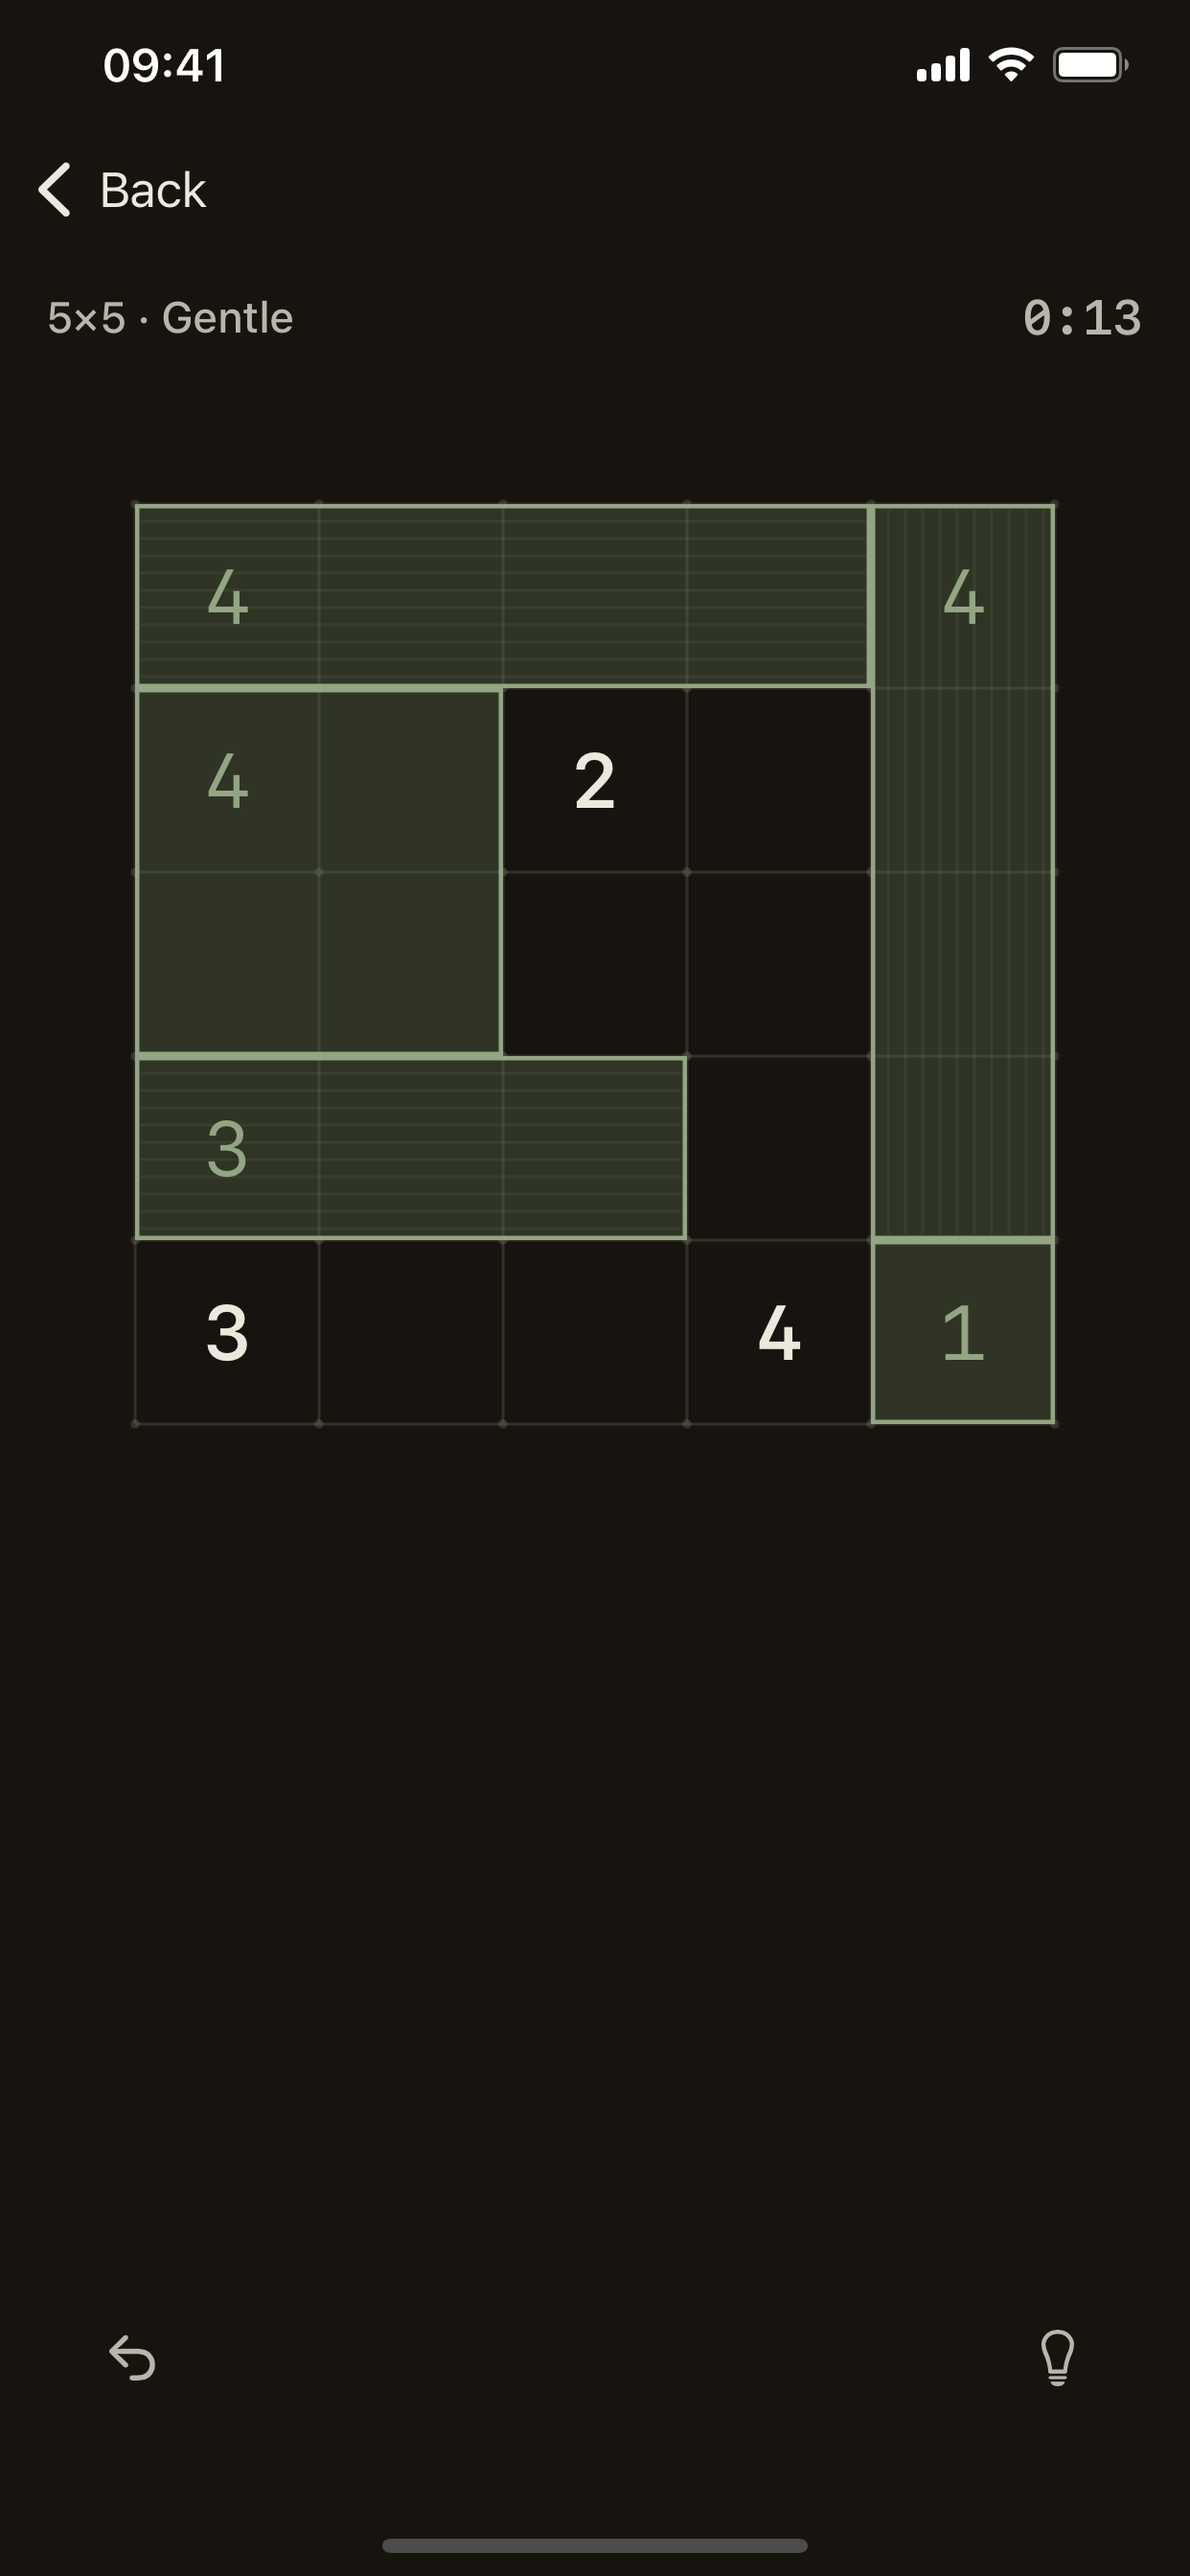
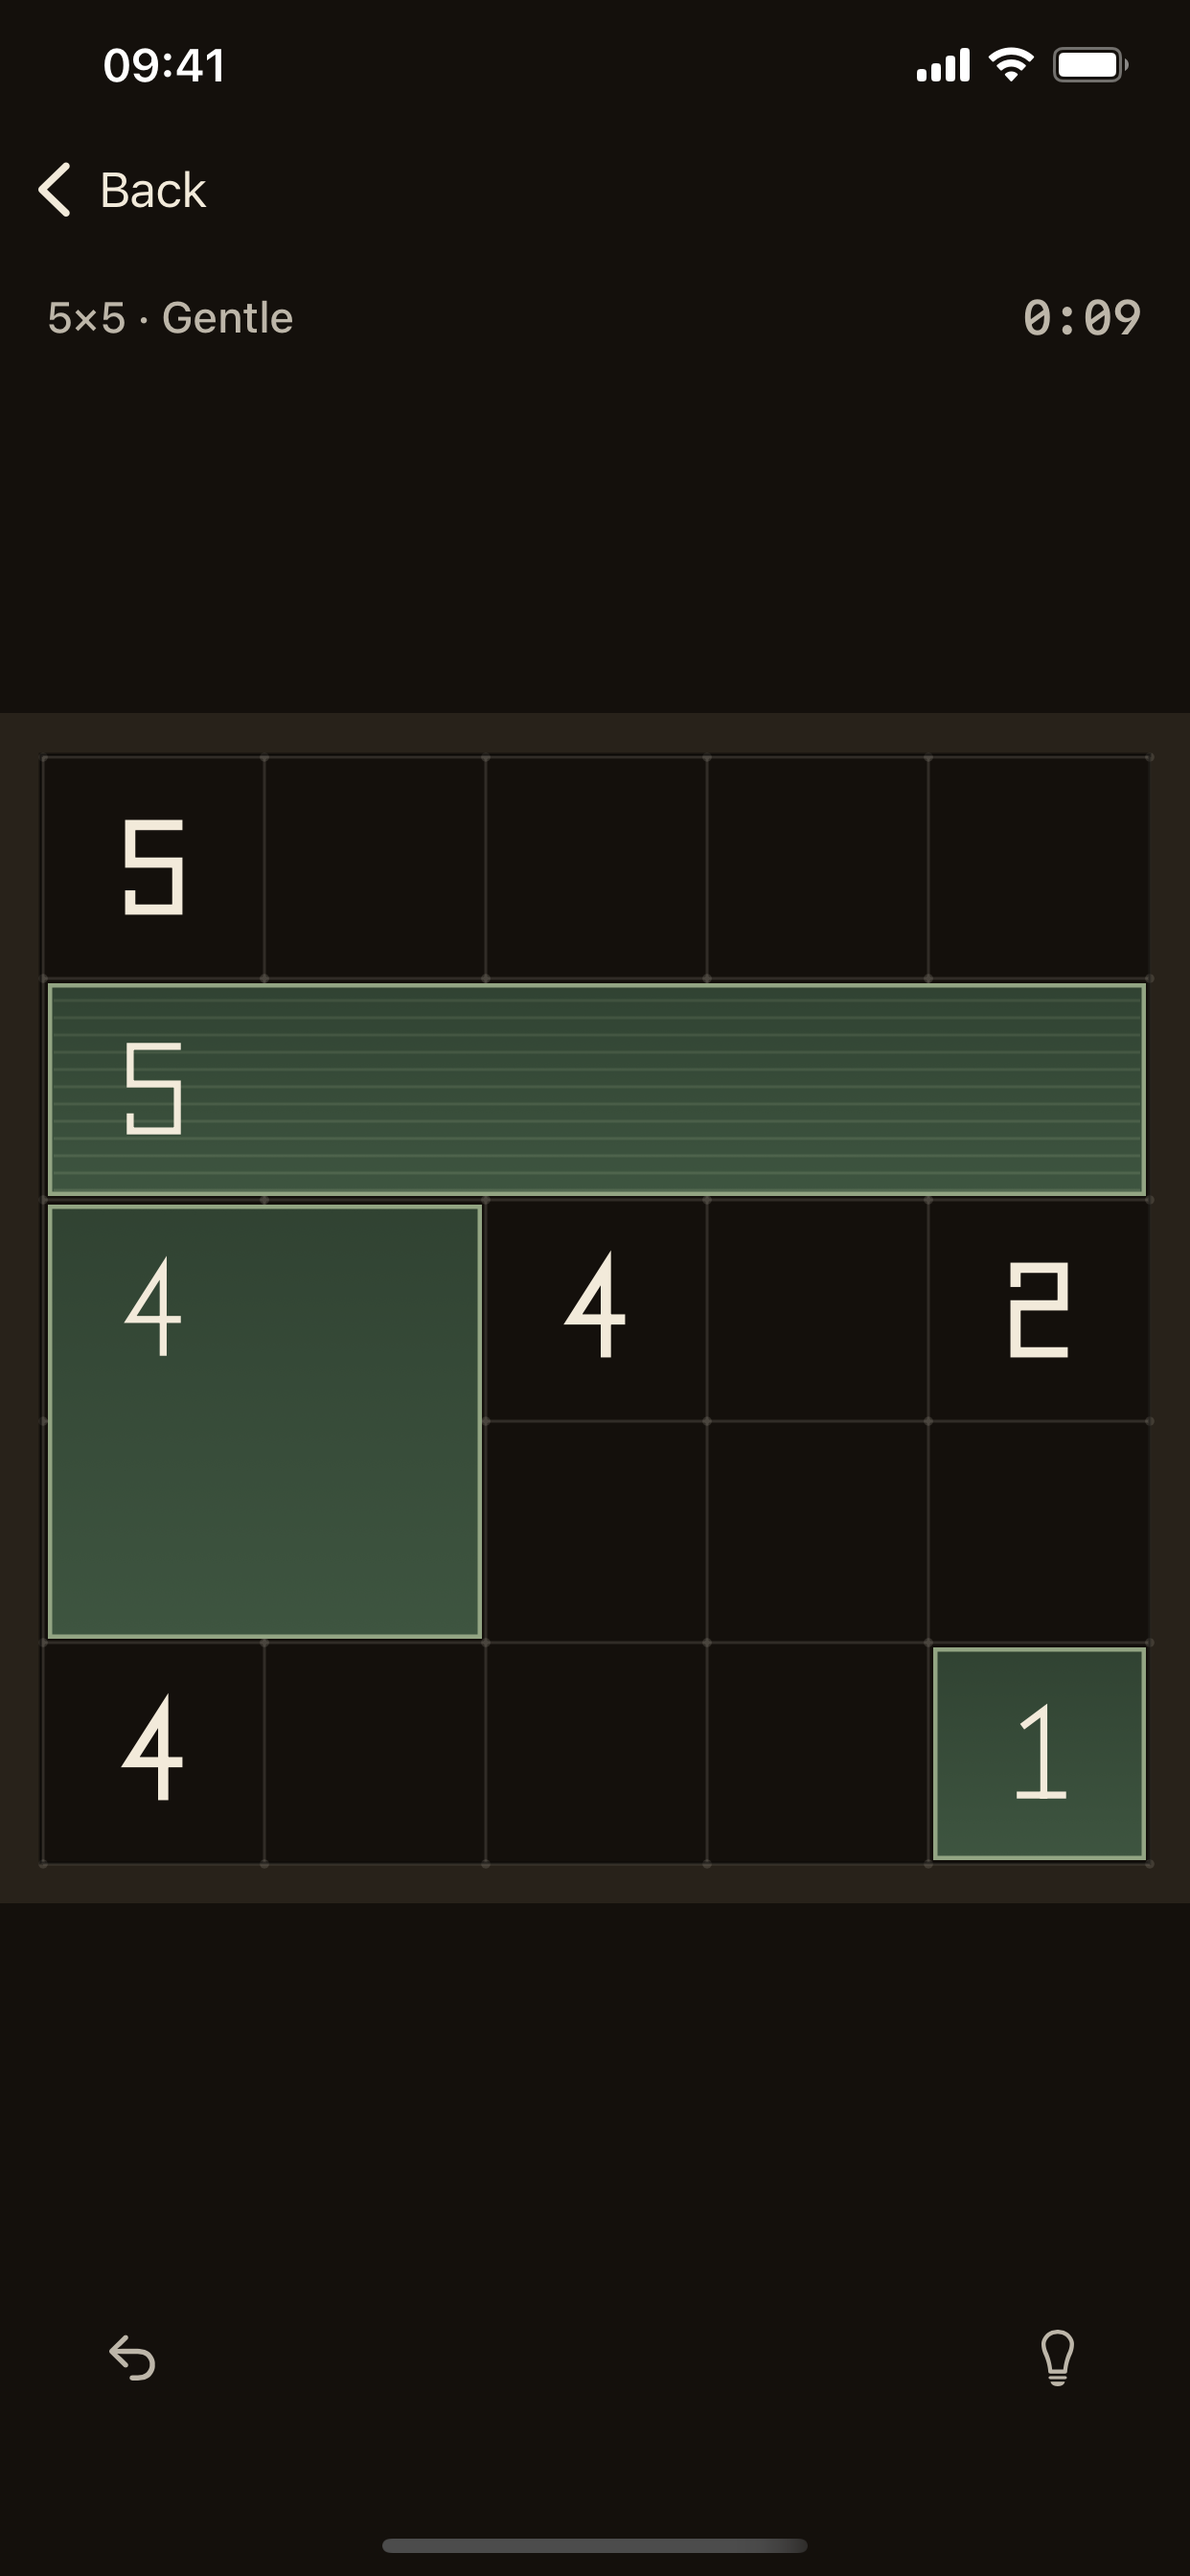
Build 3: bump, runbook §0, reply draft, capture script for the new app
CURRENT_PROJECT_VERSION 2 → 3. SUBMISSION.md gains the resubmission
checklist; resolution-reply-draft.md holds the Resolution Center text
for Kai to review — it is never sent automatically. The screenshot
driver learns the new app: entry through the size sheet, the lesson via
its seal on Home, a new daily scene, and a dark-only set (the app pins
dark; a light pass would capture identical frames twice).

Build 3 was archived, exported under the cloud-managed distribution
certificate, validated, uploaded (VALID, id 347a4e99), and attached to
the rejected 1.0 version. Description, keywords, promo, subtitle and
review notes are pushed to ASC and verified by read-back.

diff --git a/AppStore/capture_screenshots.py b/AppStore/capture_screenshots.py
@@ -320,7 +320,12 @@ def enter_game_with_readable_board(sim, attempts=6):
             if back:
                 sim.tap(back, wait=1.5)
             continue
-        sim.tap(play, wait=3.0)
+        sim.tap(play, wait=1.5)
+        # The button now opens the size/difficulty sheet; its own primary
+        # button carries the same label and starts the game.
+        confirm = sim.find("Lay out a room")
+        if confirm:
+            sim.tap(confirm, wait=3.0)
         ones = [p for v, p in sim.clue_elements() if v == 1]
         if not ones:
             back = sim.find("Back")
@@ -389,22 +394,37 @@ def game_flow(sim, out_dir, appearance):
 
 
 def learn_flow(sim, out_dir, appearance):
-    """Learn menu shot, then the Prime Strips lesson with its argument."""
-    learn = sim.find("Learn")
-    if not learn:
+    """The Prime Strips lesson (entered through its seal on Home) with its
+    argument drawn, then today's room."""
+    seal = sim.find("Prime Strips lesson")
+    if not seal:
         return False
-    sim.tap(learn, wait=2.0)
-    sim.shot(os.path.join(out_dir, f"{appearance}-05-learn.png"))
-
-    lesson = sim.find("Prime Strips")
-    if not lesson:
-        return False
-    sim.tap(lesson, wait=2.0)
+    sim.tap(seal, wait=2.0)
     show = sim.find("Show me")
     if not show:
         return False
     sim.tap(show, wait=2.2)                  # the argument draws itself
     sim.shot(os.path.join(out_dir, f"{appearance}-04-lesson.png"))
+    back = sim.find("Back")
+    if back:
+        sim.tap(back, wait=1.5)
+
+    card = sim.tree()
+    target = None
+    for el in card:
+        label = el.get("AXLabel") or ""
+        if label.startswith("Today needs") or label.startswith("Today's room"):
+            f = el.get("frame") or {}
+            target = (f.get("x", 0) + f.get("width", 0) / 2,
+                      f.get("y", 0) + f.get("height", 0) / 2)
+            break
+    if not target:
+        return True                          # lesson shot already succeeded
+    sim.tap(target, wait=7.0)                # generation runs behind loading
+    sim.shot(os.path.join(out_dir, f"{appearance}-05-daily.png"))
+    back = sim.find("Back")
+    if back:
+        sim.tap(back, wait=1.5)
     return True
 
 
@@ -413,7 +433,7 @@ def main():
     os.makedirs(out_dir, exist_ok=True)
     sim = Sim(UDID)
 
-    for appearance in ("light", "dark"):
+    for appearance in ("dark",):
         sim.appearance(appearance)
         sim.fresh_install()
         sim.launch()
@@ -439,9 +459,9 @@ def main():
         failures += 0 if good else 1
         print(f"  {'OK ' if good else f'WRONG SIZE {size}'} {name}")
     expected_names = {f"{a}-{n:02d}-{s}.png"
-                      for a in ("light", "dark")
+                      for a in ("dark",)
                       for n, s in [(1, "hint"), (2, "game"), (3, "home"),
-                                   (4, "lesson"), (5, "learn"), (6, "win")]}
+                                   (4, "lesson"), (5, "daily"), (6, "win")]}
     missing = expected_names - set(os.listdir(out_dir))
     for name in sorted(missing):
         print(f"  MISSING {name}", file=sys.stderr)

diff --git a/AppStore/resolution-reply-draft.md b/AppStore/resolution-reply-draft.md
@@ -1,0 +1,49 @@
+# Resolution Center reply — DRAFT for Kai's review, not yet sent
+
+Submission: a85832e4-bf0a-4bc5-b08b-020d14bf15ce (4.3(a) Design — Spam)
+Send via Resolution Center after build 3 is attached.
+
+---
+
+Thank you for the review. We believe Just Shikaku was grouped with a recent
+cluster of minimal Shikaku apps, and we'd like to explain what
+distinguishes it functionally — and what we have changed in the new build
+to make that distinction unmistakable.
+
+Just Shikaku is, to our knowledge, the only Shikaku app with a teaching
+curriculum. Concretely:
+
+1. Seven named solving techniques (Prime Strips, Sole Owner, Stranded
+   Cell, …), each with an interactive lesson on a position where that
+   technique is the next move. No other app in the category names its
+   techniques at all.
+
+2. Hints that argue instead of answering. Help climbs a ladder: a nudge,
+   the technique's name, then the full argument drawn on the player's own
+   board — surviving candidates, eliminated ones hatched out, dimension
+   arrows, the technique lettered above the grid. The final rung applies
+   exactly one argued move; the app never auto-solves.
+
+3. A curriculum-tied daily. Each date's board is generated so that a
+   scheduled technique appears in its logical solution; solving it unaided
+   advances that technique's mastery. Other apps' dailies rank players;
+   ours teaches them.
+
+4. Engine guarantees per board: before any puzzle is served it is verified
+   to have exactly one solution AND to be solvable by the taught
+   techniques alone. Guessing is never required.
+
+5. Mastery verified against the solver: an unhinted correct rectangle is
+   credited only when the engine can independently derive it from the
+   position it was played in — progress measures understanding, not speed.
+
+Since the previous submission we have also rebuilt the app's presentation
+so this is visible in ninety seconds: a new dark visual identity with
+hand-drawn digit glyphs (no other app in the category is dark), a new
+home screen led by the daily and the technique path, per-technique timed
+drills, a full statistics screen, and a rewritten store listing whose
+description, subtitle, keywords and screenshots are unique to this app.
+
+The teaching-first premium puzzle is an established category on the App
+Store (e.g. Good Sudoku). We ask that Just Shikaku be evaluated as that
+kind of app: same classic rules, materially different product.

diff --git a/AppStore/SUBMISSION.md b/AppStore/SUBMISSION.md
@@ -1,7 +1,27 @@
 # Just Shikaku — App Store submission runbook
 
-State as of 2026-08-14: everything is prepared and in App Store Connect on
-build 1; the version sits in `PREPARE_FOR_SUBMISSION`. **The final steps are yours and they are in §1.**
+State as of 2026-08-30: iOS 1.0 was **rejected under 4.3(a) (Design — Spam)**
+on 2026-08-28; the version is `REJECTED` and therefore editable — the
+recovery ships as 1.0 **build 3**, no version bump. The full response (the
+Lacquered Room redesign, the curriculum daily, mastery/drills/stats made
+real, the rewritten listing) is on `main`; the plan lives in
+`~/.claude/plans/go-over-it-vast-walrus.md`.
+
+## 0. Resubmission checklist (2026-08-30)
+
+- [x] App rebuilt: dark identity, curriculum daily, drills, mastery, stats
+- [x] Listing rewritten from a blank page (`metadata/*` — push via asc.py)
+- [x] Screenshots re-captured dark (`screenshots/iphone-65/dark-*`)
+- [x] Resolution Center reply drafted: `resolution-reply-draft.md` —
+      **Kai reviews and sends; never sent automatically**
+- [ ] Archive + upload build 3, attach to the version
+- [ ] Push new metadata (description/subtitle/keywords/promo/review notes)
+- [ ] Update the IAP display copy in ASC web UI ("The Whole Room")
+- [ ] Kai: App Privacy answer (if still pending), IAP into the review
+      submission, send the reply, Add for Review
+
+State as of 2026-08-14 (previous submission): everything was prepared in App
+Store Connect on build 2; the version sat in `PREPARE_FOR_SUBMISSION`.
 
 ## App record facts (matter for every future release)
 
